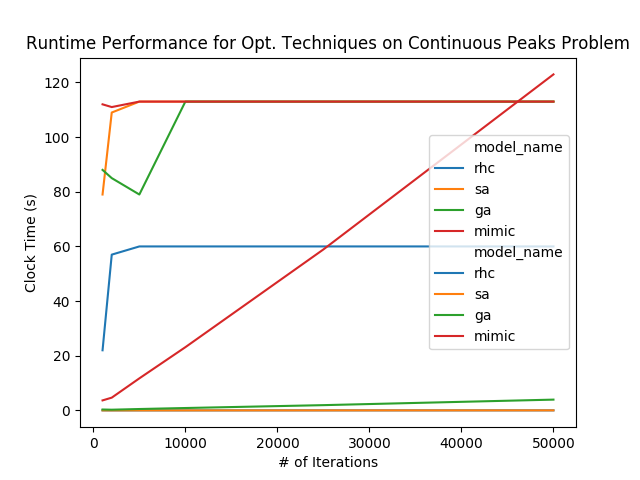
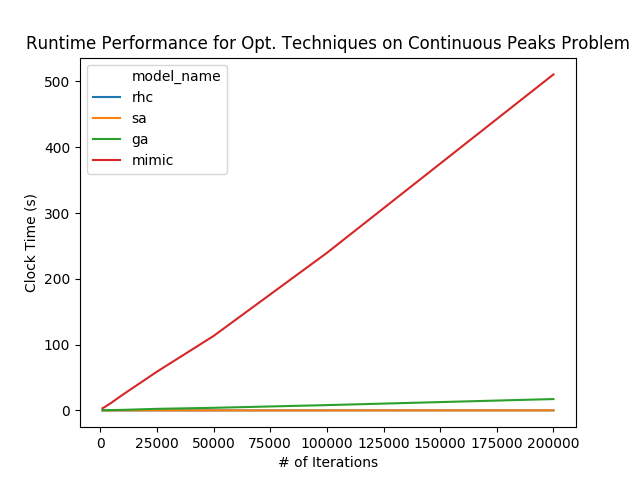
Small tweak to plot scripts to clear figure for later use.

diff --git a/plot_cont_peaks_results.py b/plot_cont_peaks_results.py
@@ -16,10 +16,16 @@ plt.savefig('continuous_peaks_fitness_plot.png')
 
 clock_times_input_file = sys.argv[2]
 
+plt.clf()
+
 perf_df = pd.read_csv(clock_times_input_file)
 ax = sns.lineplot(x="iteration", y="clock_time", hue="model_name", data=perf_df)
 plt.xlabel('# of Iterations')
 plt.ylabel("Clock Time (s)")
 plt.title("Runtime Performance for Opt. Techniques on Continuous Peaks Problem")
+
+handles, labels = plt.gca().get_legend_handles_labels()
+by_label = dict(zip(labels, handles))
+plt.legend(by_label.values(), by_label.keys())
 
 plt.savefig('continuous_peaks_clock_times_plot.png')

diff --git a/plot_knapsack_results.py b/plot_knapsack_results.py
@@ -16,6 +16,8 @@ plt.savefig('knapsack_fitness_plot.png')
 
 clock_times_input_file = sys.argv[2]
 
+plt.clf()
+
 perf_df = pd.read_csv(clock_times_input_file)
 ax = sns.lineplot(x="iteration", y="clock_time", hue="model_name", data=perf_df)
 plt.xlabel('# of Iterations')

diff --git a/plot_tsp_results.py b/plot_tsp_results.py
@@ -16,7 +16,7 @@ plt.savefig('tsp_fitness_plot.png')
 
 clock_times_input_file = sys.argv[2]
 
-plt.plot()
+plt.clf()
 
 perf_df = pd.read_csv(clock_times_input_file)
 ax = sns.lineplot(x="iteration", y="clock_time", hue="model_name", data=perf_df)
